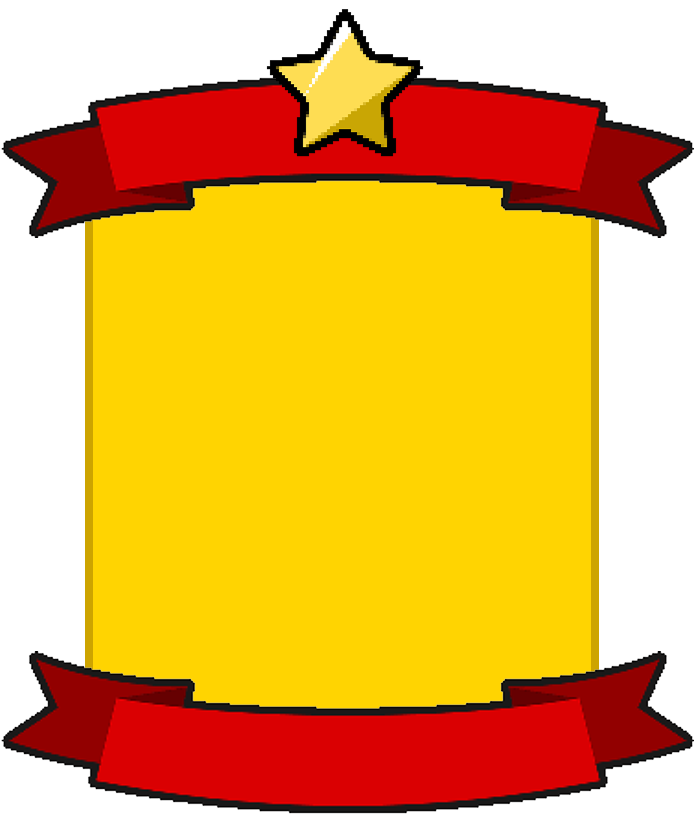
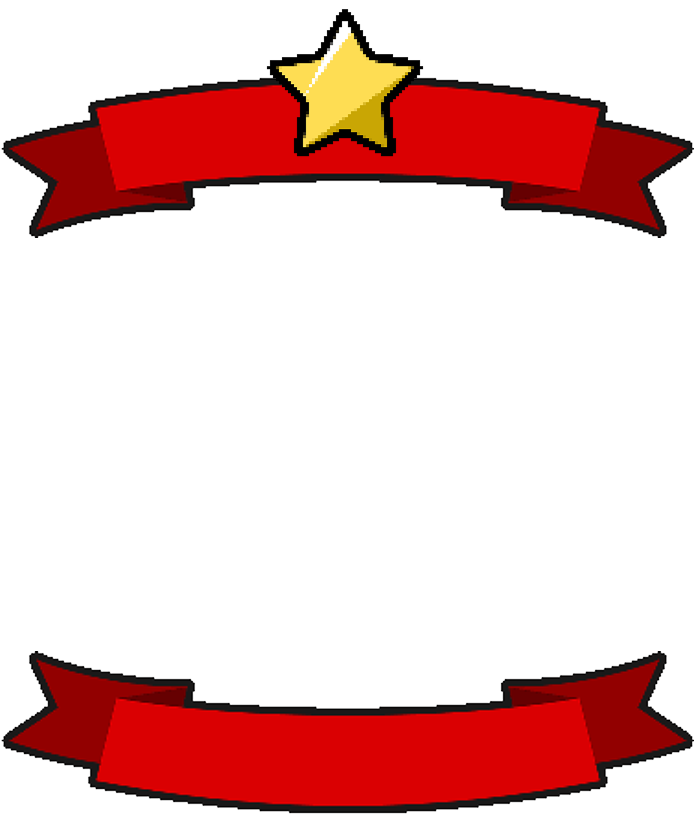
✨ 포켓몬 타입에 따른 배경변화

diff --git a/src/pages/slot/slot.ts b/src/pages/slot/slot.ts
@@ -37,6 +37,7 @@ import soundOff from '/src/assets/common/sound-off.png'; // sound-off 이미지
 import oneStar from '/src/assets/slot/star1.png';
 import twoStar from '/src/assets/slot/star2.png';
 import threeStar from '/src/assets/slot/star3.png';
+// 미획득 카드 모음
 import card777 from '/src/assets/slot/777card.png';
 import card888 from '/src/assets/slot/888card.png';
 import card50 from '/src/assets/slot/card50.png';
@@ -45,6 +46,27 @@ import card104 from '/src/assets/slot/card104.png';
 import card111 from '/src/assets/slot/card111.png';
 import card137 from '/src/assets/slot/card137.png';
 import card147 from '/src/assets/slot/card147.png';
+import card27 from '/src/assets/slot/card27.jpg';
+import card28 from '/src/assets/slot/card28.jpg';
+// 타입별 배경이미지
+import bugImg from '/src/assets/slot/typeback/bug.png';
+import darkImg from '/src/assets/slot/typeback/dark.png';
+import dragonImg from '/src/assets/slot/typeback/dragon.png';
+import electricImg from '/src/assets/slot/typeback/electric.png';
+import fairyImg from '/src/assets/slot/typeback/fairy.png';
+import fightingImg from '/src/assets/slot/typeback/fighting.png';
+import flyingImg from '/src/assets/slot/typeback/flying.png';
+import ghostImg from '/src/assets/slot/typeback/ghost.png';
+import grassImg from '/src/assets/slot/typeback/grass.png';
+import groundImg from '/src/assets/slot/typeback/ground.png';
+import iceImg from '/src/assets/slot/typeback/ice.png';
+import normalImg from '/src/assets/slot/typeback/normal.png';
+import poisonImg from '/src/assets/slot/typeback/poison.png';
+import psychicImg from '/src/assets/slot/typeback/psychic.png';
+import rockImg from '/src/assets/slot/typeback/rock.png';
+import steelImg from '/src/assets/slot/typeback/steel.png';
+import waterImg from '/src/assets/slot/typeback/water.png';
+import fireImg from '/src/assets/slot/typeback/fire.png';
 
 const apiKey = import.meta.env.VITE_POKEMONTCG_API_KEY; // 카드 api불러오기
 
@@ -75,6 +97,10 @@ const pokeList: number[][] = [
     76, 78, 91, 94, 97, 112, 113, 115, 130, 131, 132, 137, 139, 143, 149,
   ],
   [144, 145, 146, 150, 151, 777, 888],
+  // [888],
+  // [888],
+  // [888],
+  // [888],
 ];
 /* ───────────── DOM 엘리먼트 정의 ───────────── */
 const slotbtn = document.querySelector<HTMLButtonElement>('#slotBtn'); // 슬롯 머신 버튼
@@ -85,6 +111,7 @@ const starBack = document.querySelector('#starBack'); // 포켓몬 카드배경
 const pokeName = document.querySelector('#pokeName'); // 포켓몬 카드이름
 const pokeCard = document.querySelector('#pokeCard');
 const mSlotBtn = document.querySelector<HTMLButtonElement>('#MslotBtn'); // 모바일버튼
+const cardBack = document.querySelector<HTMLButtonElement>('#cardBack'); // 카드배경이미지
 
 // ST : 뒤로가기, 음소거 버튼 ------------------
 const backBtn = document.querySelector('.back-btn') as HTMLElement;
@@ -379,8 +406,76 @@ async function getPokeKorName(pokeNum: number) {
     const pokeDataObj = await pokeData.json();
     thisPokeName = pokeDataObj.names[2].name;
   }
+  getPokeType(pokeNum);
 
   return thisPokeName;
+}
+
+/* ───────────── 뽑은 포켓몬 타입불러오기 ───────────── */
+async function getPokeType(pokeNum: number) {
+  let thisPokeType = '';
+  if (pokeNum === 777) {
+    thisPokeType = 'flying';
+  } else if (pokeNum === 888) {
+    thisPokeType = 'fire';
+  } else {
+    const typeData = await fetch(
+      `https://pokeapi.co/api/v2/pokemon/${pokeNum}`,
+    );
+    const typeDataObj = await typeData.json();
+    thisPokeType = typeDataObj.types[0].type.name;
+    const lastTypeIndex = typeDataObj.types.length - 1;
+    const lastType = typeDataObj.types[lastTypeIndex].type.name;
+    const realType = typeDataObj.types[0].type.name;
+    console.log(lastType);
+    console.log(realType);
+    if (realType === 'normal') {
+      thisPokeType = lastType;
+    } else {
+      thisPokeType = realType;
+    }
+  }
+  if (cardBack) {
+    // 조건별 배경분리 .. 이렇게 한이유 : 타입스크립트 놈이 선언하고 안쓴다고 에러냄 ㅠ
+    if (thisPokeType === 'bug') {
+      cardBack.style.backgroundImage = `url(${bugImg})`;
+    } else if (thisPokeType === 'dark') {
+      cardBack.style.backgroundImage = `url(${darkImg})`;
+    } else if (thisPokeType === 'dragon') {
+      cardBack.style.backgroundImage = `url(${dragonImg})`;
+    } else if (thisPokeType === 'electric') {
+      cardBack.style.backgroundImage = `url(${electricImg})`;
+    } else if (thisPokeType === 'fairy') {
+      cardBack.style.backgroundImage = `url(${fairyImg})`;
+    } else if (thisPokeType === 'fighting') {
+      cardBack.style.backgroundImage = `url(${fightingImg})`;
+    } else if (thisPokeType === 'flying') {
+      cardBack.style.backgroundImage = `url(${flyingImg})`;
+    } else if (thisPokeType === 'ghost') {
+      cardBack.style.backgroundImage = `url(${ghostImg})`;
+    } else if (thisPokeType === 'grass') {
+      cardBack.style.backgroundImage = `url(${grassImg})`;
+    } else if (thisPokeType === 'ground') {
+      cardBack.style.backgroundImage = `url(${groundImg})`;
+    } else if (thisPokeType === 'ice') {
+      cardBack.style.backgroundImage = `url(${iceImg})`;
+    } else if (thisPokeType === 'normal') {
+      cardBack.style.backgroundImage = `url(${normalImg})`;
+    } else if (thisPokeType === 'poison') {
+      cardBack.style.backgroundImage = `url(${poisonImg})`;
+    } else if (thisPokeType === 'psychic') {
+      cardBack.style.backgroundImage = `url(${psychicImg})`;
+    } else if (thisPokeType === 'rock') {
+      cardBack.style.backgroundImage = `url(${rockImg})`;
+    } else if (thisPokeType === 'steel') {
+      cardBack.style.backgroundImage = `url(${steelImg})`;
+    } else if (thisPokeType === 'fire') {
+      cardBack.style.backgroundImage = `url(${fireImg})`;
+    } else if (thisPokeType === 'water') {
+      cardBack.style.backgroundImage = `url(${waterImg})`;
+    }
+  }
+  return thisPokeType;
 }
 
 /* ───────────── 포켓몬 get 화면 닫기버튼 ───────────── */
@@ -436,6 +531,10 @@ async function cardImg(dogamNum: number): Promise<string> {
     cardUrl = card137;
   } else if (dogamNum === 147) {
     cardUrl = card147;
+  } else if (dogamNum === 27) {
+    cardUrl = card27;
+  } else if (dogamNum === 28) {
+    cardUrl = card28;
   } else {
     const imgUrl = `https://api.pokemontcg.io/v2/cards?q=nationalPokedexNumbers:${dogamNum}`;
     const res = await fetch(imgUrl, {
@@ -519,8 +618,6 @@ function cardanimation() {
       const rect = pokeCard.getBoundingClientRect();
       const x = e.clientX - rect.left;
       const y = e.clientY - rect.top;
-      console.log('요소 내부 좌표: x', x);
-      console.log('요소 내부 좌표: y', y);
       const rotateY = -(0.090645 * x - 10.16129);
       const rotateX = 0.090645 * y - 10.16129;
 

diff --git a/src/pages/slot/slot.html b/src/pages/slot/slot.html
@@ -28,7 +28,7 @@
         <!-- ED : 뒤로가기, 음소거 버튼-->
         <!-- ST : 카드 획득 화면-->
         <div class="poke-get" id="pokeGet">
-          <div class="card-wrapper">
+          <div id="cardBack" class="card-wrapper">
             <div class="shine"></div>
             <div class="shine2"></div>
             <div class="shadow"></div>

diff --git a/src/pages/slot/slot.css b/src/pages/slot/slot.css
@@ -110,6 +110,10 @@
     height: 100%;
     position: relative;
     perspective: 500px;
+    /* background-image: url('../../assets/slot/typeback/electric.png'); */
+    background-repeat: no-repeat;
+    background-position: 50% 40%;
+    background-size: 50%;
   }
   .card-ab {
     position: absolute;
